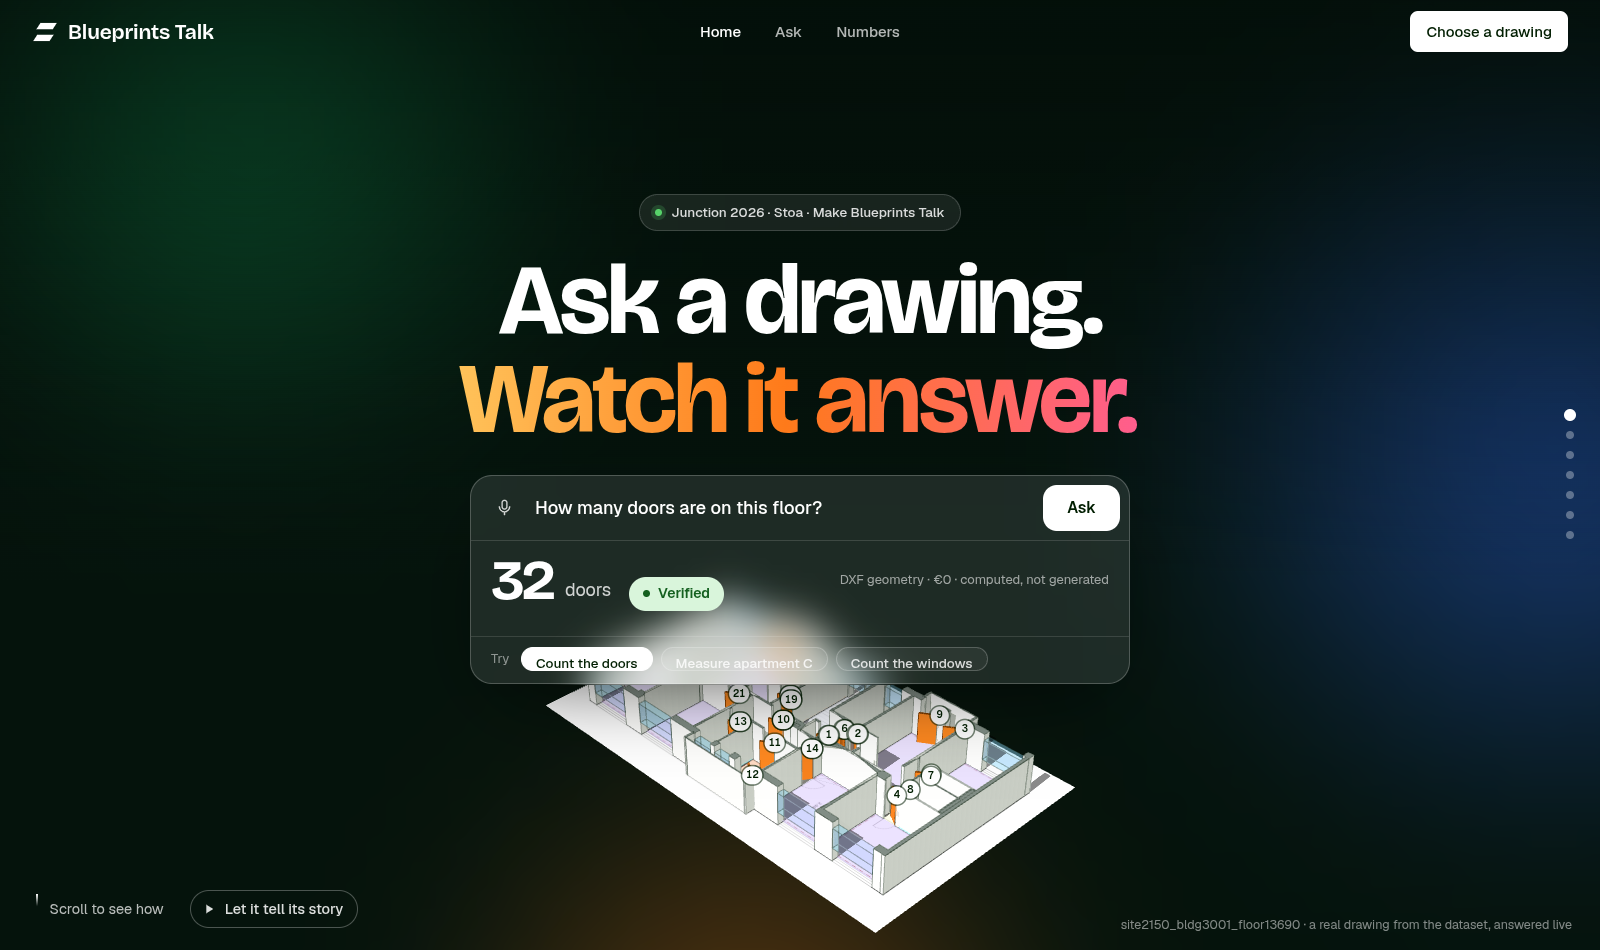
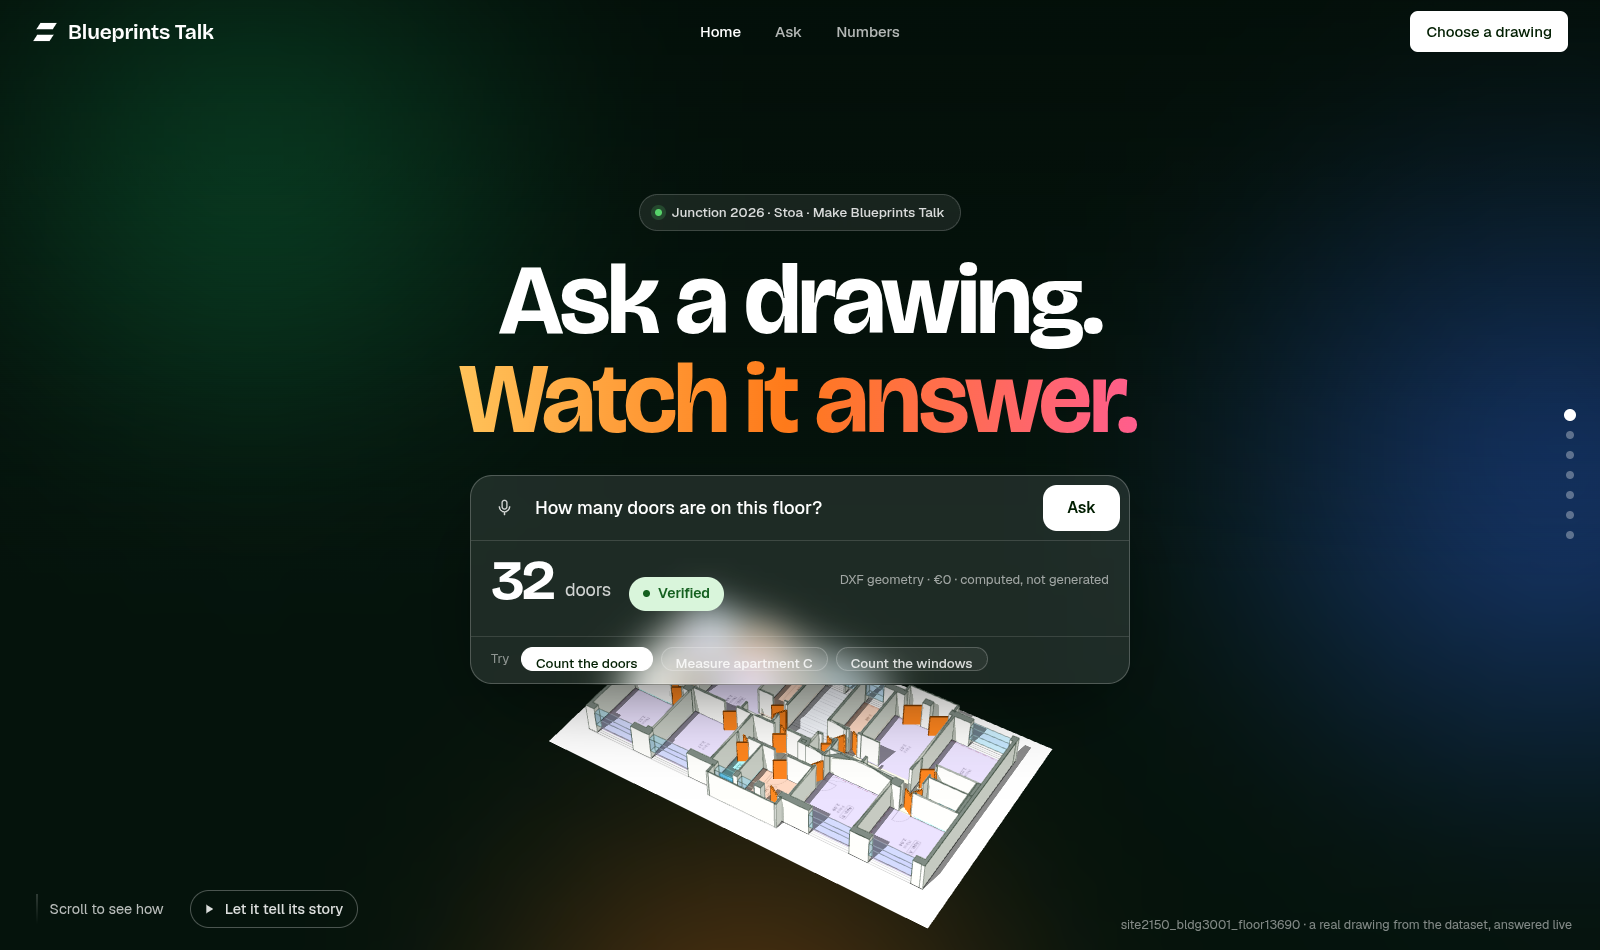
Number tags: smaller when there are many, hidden while the model is only a backdrop

Changed region(s): [[0.3438, 0.6105, 0.6875, 0.9768]]

diff --git a/web/src/Viewer3D.tsx b/web/src/Viewer3D.tsx
@@ -37,6 +37,7 @@ interface Props {
   bare?: boolean;  // no captions or tools, no zoom: the stage alone, as a backdrop
   shift?: number;  // move the model sideways by this share of the width (text stands beside it)
   direct?: Direction;
+  tags?: boolean;  // false hides the number tags (when the model is small on screen they only crowd it)
   onReady?(): void;
 }
 
@@ -217,7 +218,7 @@ interface Stage {
   spin(on: boolean): void;
 }
 
-export function Viewer3D({ meshUrl, groundUrl, imageUrl, highlights, visible, hover, focus, excluded, focusKey, theme = "paper", bare, shift = 0, direct, onReady }: Props) {
+export function Viewer3D({ meshUrl, groundUrl, imageUrl, highlights, visible, hover, focus, excluded, focusKey, theme = "paper", bare, shift = 0, direct, tags = true, onReady }: Props) {
   const directed = useRef(direct);
   directed.current = direct;
   const host = useRef<HTMLDivElement>(null);
@@ -867,8 +868,10 @@ export function Viewer3D({ meshUrl, groundUrl, imageUrl, highlights, visible, ho
     s.fly(box.expandByScalar(Math.max(3.6, box.getSize(new THREE.Vector3()).length() * 1.5)), { low: true, ms: 800 });
   }, [focus]);
 
+  // Many items on one model: smaller tags, so that each still shows.
+  const crowded = highlights.length > 18;
   return (
-    <div className={`viewer3d${theme === "night" ? " night" : ""}`}>
+    <div className={`viewer3d${theme === "night" ? " night" : ""}${crowded ? " crowded" : ""}${tags ? "" : " untagged"}`}>
       <div ref={host} className="stage3d" />
       {status === "loading" && !bare && <div className="viewer-wait">Building the model…</div>}
       {status !== "loading" && status !== "ready" && !bare && <div className="viewer-wait">{status}</div>}

diff --git a/web/src/styles.css b/web/src/styles.css
@@ -763,3 +763,7 @@ html[data-on-stage] .app.page-home .top .ghost { color: rgb(255 255 255 / 0.8); 
 /* The model's number tags stay inside the stage: the opening's card and the chapters stand above them. */
 .story-stage { isolation: isolate; }
 .hero, .hero-foot, .story-copy, .story-rail { z-index: 3; }
+
+/* Number tags on the model: smaller when there are many, hidden when the model is only a backdrop */
+.viewer3d.crowded .tag3d { min-width: 15px; height: 15px; padding: 0 3px; border-radius: 8px; font-size: 8.5px; line-height: 15px; transform: translateY(-11px); }
+.viewer3d.untagged .labels3d { display: none; }

diff --git a/web/src/Story.tsx b/web/src/Story.tsx
@@ -293,6 +293,7 @@ export function Story({ stats, onOpen, onAsk, onBrowse, onBring, onTalk, canTalk
               theme="night"
               bare
               direct={direction}
+              tags={!opening}
               onReady={() => { const t = performance.now(); setBuilt(t); setNow(t); }}
             />
           )}
